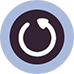
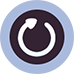
Animated autoplay button
-Changed the autoplay button to rotate when active

Changed region(s): [[0.2162, 0.2162, 0.7838, 0.7568], [0.5405, 0.6757, 0.5946, 0.7027], [0.4054, 0.6757, 0.4595, 0.7027]]

diff --git a/Cateau/Assets/Scripts/UI/ButtonToggleColor.cs b/Cateau/Assets/Scripts/UI/ButtonToggleColor.cs
@@ -13,6 +13,9 @@ public class ButtonToggleColor : MonoBehaviour
 
     private Image _image;
 
+    private float rotation;
+    public float speed;
+
     private Color _imageBaseColor;
 	// Use this for initialization
 	void Awake ()
@@ -27,7 +30,7 @@ public class ButtonToggleColor : MonoBehaviour
             {
                 if (GameStateContainer.Instance.autoTurnPage)
                 {
-                    ToggleButtonColor();
+                    //ToggleButtonColor();
                 }
             }
             else
@@ -35,6 +38,21 @@ public class ButtonToggleColor : MonoBehaviour
                 Debug.Log("GameStateContainer doesn't exist: " + gameObject);
             }
 
+        }
+    }
+
+    private void Update()
+    {
+
+        rotation += Time.deltaTime * speed;
+        if (rotation > Mathf.PI * 2) rotation = rotation % (Mathf.PI * 2);
+
+        if(GameStateContainer.Instance != null)
+        {
+            if (GameStateContainer.Instance.autoTurnPage)
+            {
+                _image.rectTransform.Rotate(Vector3.forward * Time.deltaTime * -speed);
+            }
         }
     }
 
